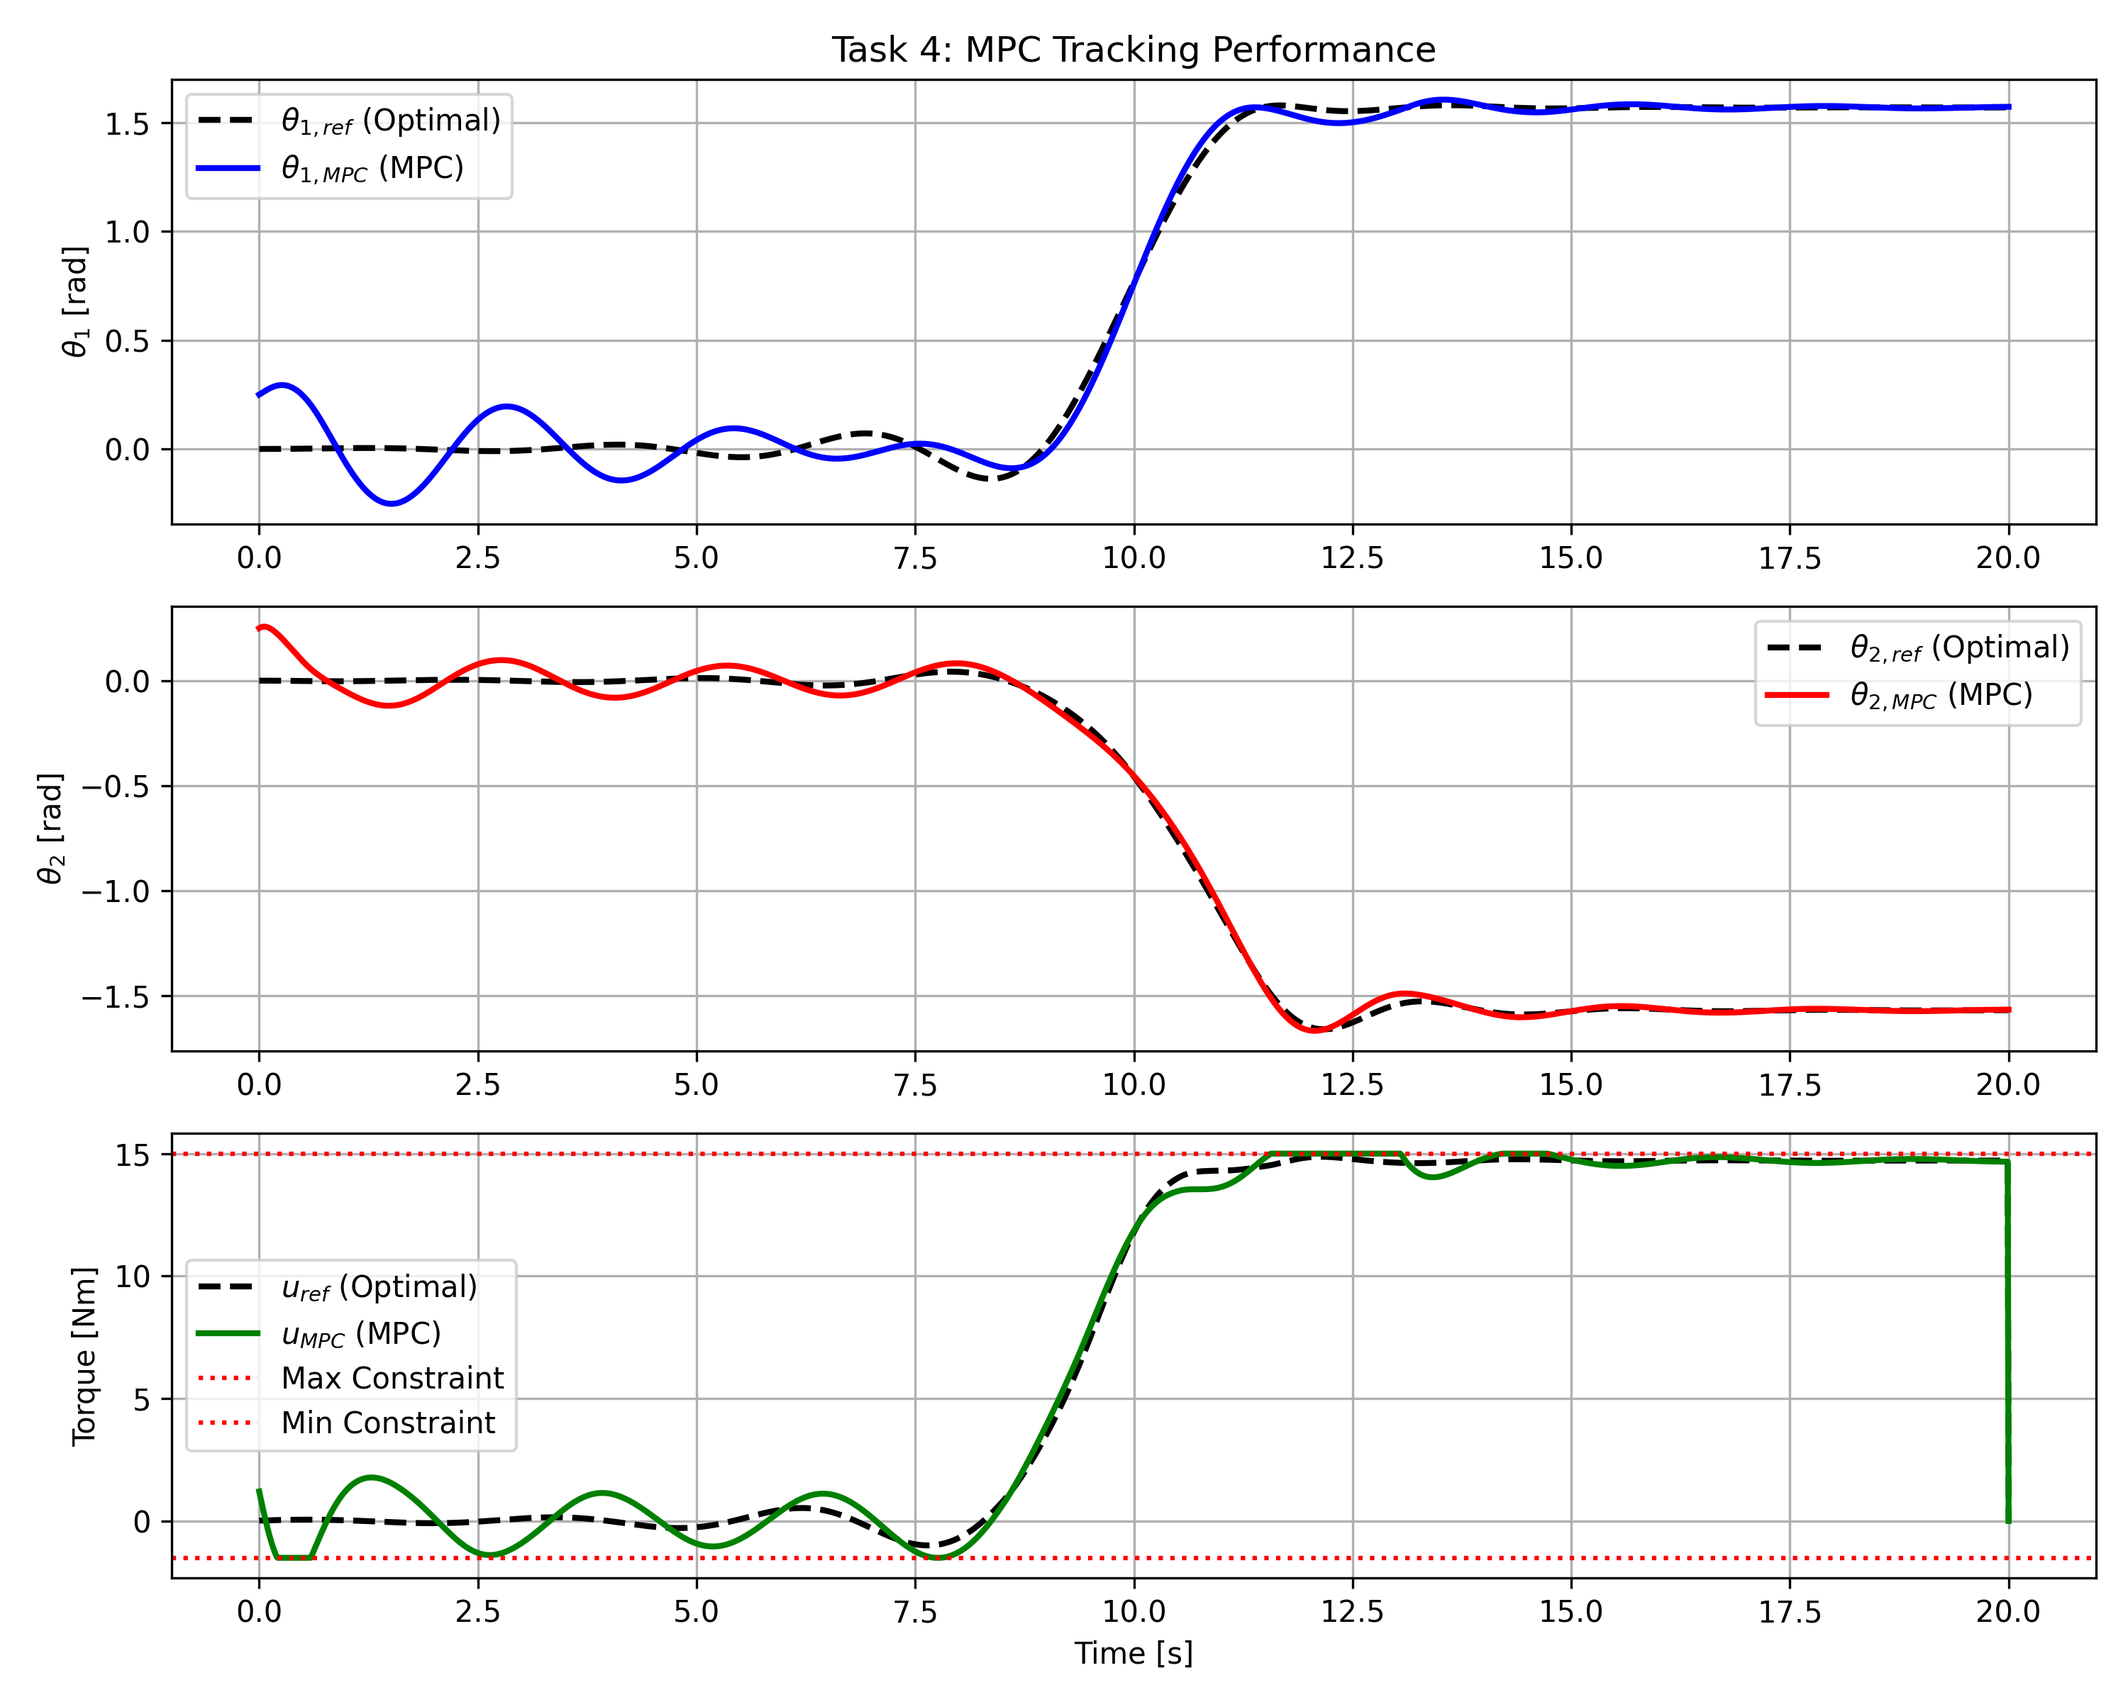
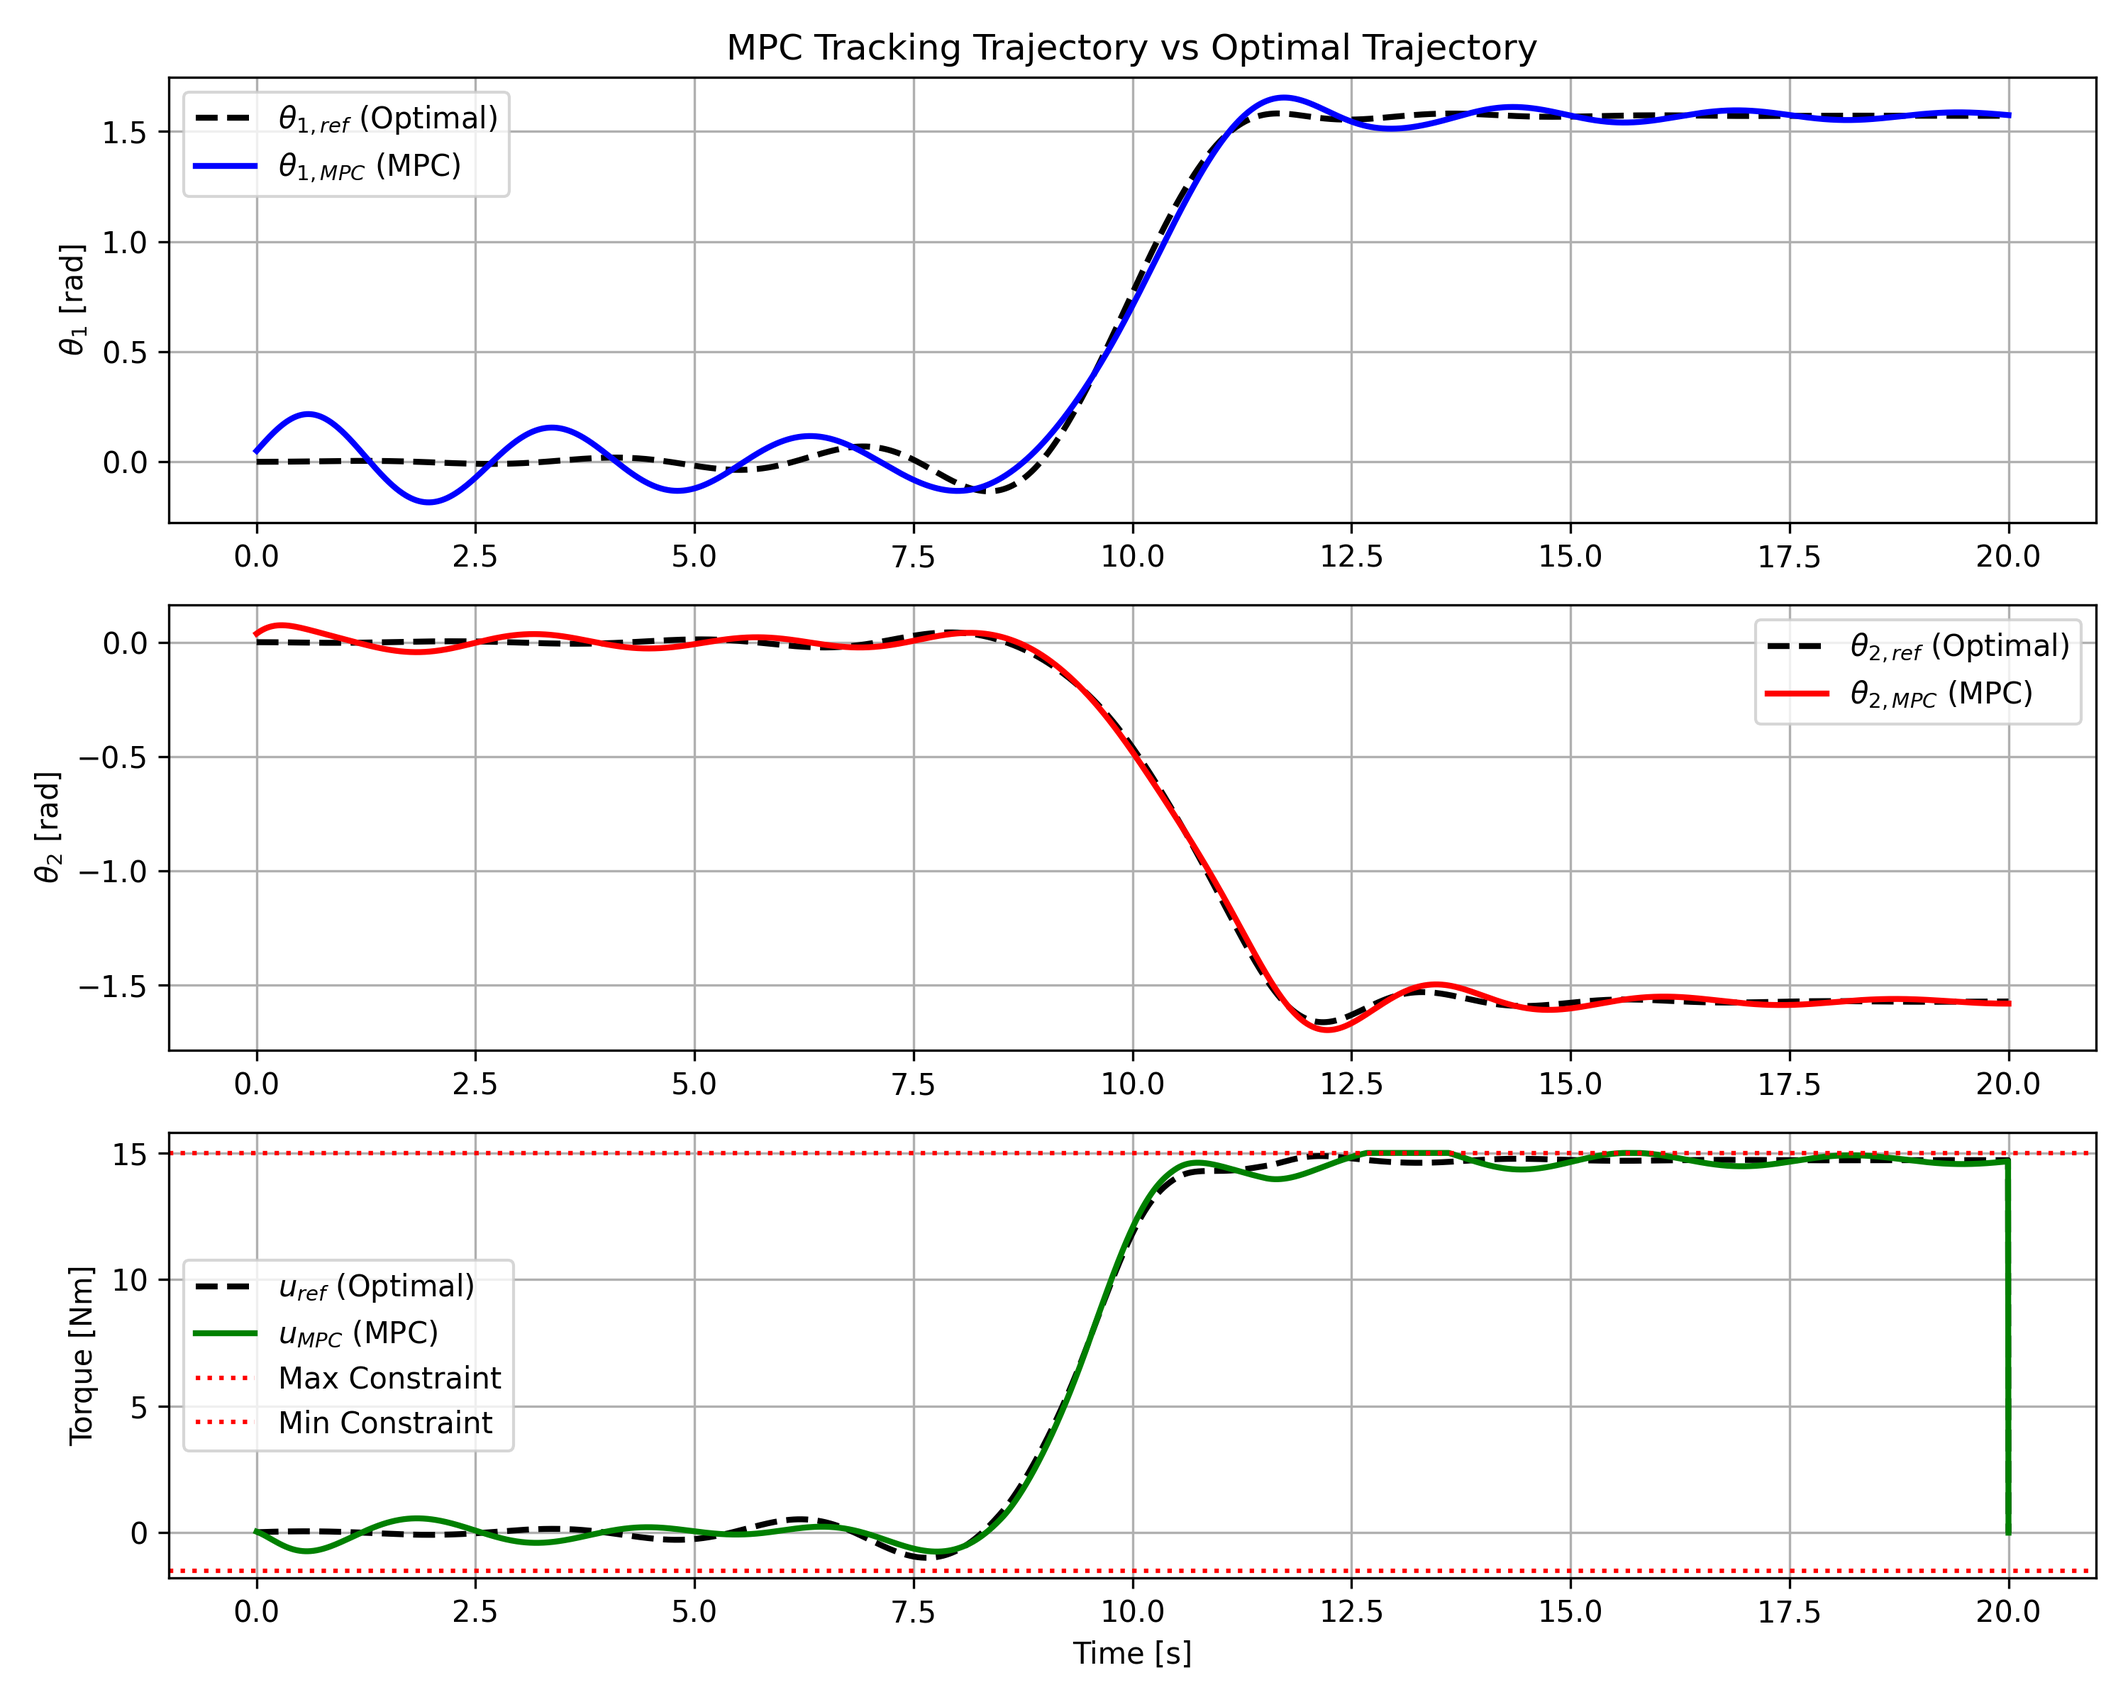
modificato fino a main 4

diff --git a/main_task4.py b/main_task4.py
@@ -25,22 +25,8 @@ else:
 ### --- IMPORTS --- ###
 import numpy as np
 import matplotlib.pyplot as plt
-import matplotlib.cm as cm
-import sympy as sp
-import math
-from mpl_toolkits import mplot3d # used for 3D plot
-import cvxpy as cvx
-import signal
-from scipy.optimize import minimize
-from matplotlib.animation import FuncAnimation
-import control 
-import random
-
 import dynamics as dyn
-import equilibrium as eq
 import reference_curve as ref_traj
-import cost as cst
-from ltv_solver_LQR import ltv_LQR
 from solver_MPC import solver_linear_MPC
 
 # Defining final time in seconds
@@ -49,13 +35,13 @@ tf = ref_traj.tf
 # Defining the discretization step value
 dt = dyn.dt
 
-# Defining the time-horizon value for MPC (we use a bigger time horizon value, i.e. four times the trajectory duration)
+# Defining the time-horizon value
 T_horizon  = int(tf/dt)
 
 # Defining the time-window size
 T_window = 25
 
-# Defining the time value to avoid index_errors
+# Defining the time value to avoid index_errors (+10 to be robust)
 T_limit = T_horizon + T_window
 
 # Defining the input torque limits
@@ -66,24 +52,23 @@ uu_min = -1.5
 ns = dyn.ns
 ni = dyn.ni
 
-# Defining the optimal trajectory variables
+# Loading from task 2 the optimal trajectory variables
 xx_opt_traj = np.load('optimal_traj_xx.npy')
 uu_opt_traj = np.load('optimal_traj_uu.npy')
 
 # Padding the optimal trajectory
-# T_padding = T_window + 5  # A little bit of extra margin
 xx_last = xx_opt_traj[:, -1].reshape(-1, 1) 
 uu_last = uu_opt_traj[:, -1].reshape(-1, 1)
 
-# Creiamo il blocco di padding ripetendo l'ultima colonna
+# Creating trhe padding block to add to the optimal trajectory repeating last column
 xx_pad = np.repeat(xx_last, T_window, axis=1)
 uu_pad = np.repeat(uu_last, T_window, axis=1)
 
-# Incolliamo
+# Attaching the padded part
 xx_opt_traj_pad = np.hstack((xx_opt_traj, xx_pad))
 uu_opt_traj_pad = np.hstack((uu_opt_traj, uu_pad))
 
-# Linearize dynamics along the trajectory
+# Initializing linearization dynamics matrices
 AA_t = np.zeros((ns, ns, T_limit))
 BB_t = np.zeros((ns, ni, T_limit))
 
@@ -91,11 +76,11 @@ BB_t = np.zeros((ns, ni, T_limit))
 # Finding the new A and B matrices dependent from the optimal trajectories xx and uu 
 for tt in range(T_limit):
     
-    # We compute "xt" and "ut" until the padded trajectory values
+    # Computing "xt" and "ut" until the padded trajectory values
     x_t = xx_opt_traj_pad[:, tt]
     u_t = uu_opt_traj_pad[:, tt]
     
-    # Compute A and B matrices
+    # Computing A and B matrices
     A = (dyn.dynamics_euler(x_t, u_t)[1]).T
     B = (dyn.dynamics_euler(x_t, u_t)[2]).T
     
@@ -103,60 +88,51 @@ for tt in range(T_limit):
     AA_t[:, :, tt] = A
     BB_t[:, :, tt] = B
 
-# Define LQ cost matrices
+# Defining LQ cost matrices
 QQ = np.diag([200, 200, 1, 1])
 RR = np.diag([0.1])
 QQ_final = np.diag([200, 200, 1, 1])
 
-# Defining the input perturbation 
-initial_perturbation = 0.25
-
+# Defining the input perturbation, as random, for each state
+initial_perturbation = np.random.uniform(0, 0.5, 4) # Syntax: uniform(start, end, num_elem)
+print(f"The initial perturbation on each state is:\n{initial_perturbation}")
 xx0_pert = xx_opt_traj[:,0].copy() + initial_perturbation
 
-# Inizialization of simulation arrays
+# Initializing tracking trajectories
 xx_MPC_track = np.zeros((ns, T_horizon)) # defining x_t
 uu_MPC_track = np.zeros((ni, T_horizon)) # defining u_t
 
-# Set initial condition as perturbed
+# Setting initial condition as perturbed
 xx_MPC_track[:, 0] = xx0_pert
 
-# --- RECEDING HORIZON SIMULATION LOOP ---
 print(f"Starting MPC Simulation with a time window step N={T_window}...")
 
-#--------------- MPC loop ---------------
+# MPC loop
 for tt in range(T_horizon-1):
 
-    # Measure/Estimate current state
-    x_curr = xx_MPC_track[:, tt]
+    # Measuring the current state
+    x_mpc_curr = xx_MPC_track[:, tt]
     
-    # Calculate current error (delta_x)
+    # Computing current error (delta_x)
     # The solver needs to know how far we are from the reference
-    delta_x0 = x_curr - xx_opt_traj[:, tt]
+    delta_x0 = x_mpc_curr - xx_opt_traj[:, tt]
     
     # Data Slicing (Preparation for the Solver)
-    # We extract the window from 'tt' to 'tt + N_pred'
+    # Extracting the window from 'tt' to 'tt + T_window'
     AA_window = AA_t[:, :, tt : tt + T_window]
     BB_window = BB_t[:, :, tt : tt + T_window]
     uu_ref_window = uu_opt_traj_pad[:, tt : tt + T_window] # Needed for input constraints
     
-    # Check if window size is correct (at the end of simulation)
-    if AA_window.shape[2] < T_window:
-        print("Warning: Window size mismatch near end of horizon.")
-        break
-
     # Solve MPC problem - it returns the optimal correction "delta_u" for the current step (the first one)
-    delta_u = solver_linear_MPC(
-        AA_window, BB_window, QQ, RR, QQ_final, 
-        delta_x0, T_window, uu_ref_window, uu_max, uu_min
-    )
+    delta_u = solver_linear_MPC(AA_window, BB_window, QQ, RR, QQ_final, delta_x0, T_window, uu_ref_window, uu_max, uu_min)
     
-    # Apply Input
-    #u_applied = uu_reference + delta_u_optimal
+    # Applying Input
+    # u_applied = uu_reference + delta_u_optimal
     u_applied = uu_opt_traj[:, tt] + delta_u
     uu_MPC_track[:, tt] = u_applied
     
-    # Solve MPC problem - apply first input and get x_t+1
-    xx_MPC_track[:,tt+1] = dyn.dynamics_euler(x_curr, u_applied)[0]
+    # Solving MPC problem - apply first input and get x_t+1
+    xx_MPC_track[:,tt+1] = dyn.dynamics_euler(x_mpc_curr, u_applied)[0]
     
     
 # Copy for plotting consistency
@@ -178,7 +154,7 @@ plt.subplot(3, 1, 1)
 plt.plot(time_axis, xx_opt_traj[0, :], 'k--', linewidth=2, label=r'$\theta_{1,ref}$ (Optimal)')
 plt.plot(time_axis, xx_final[0, :], 'b-', linewidth=2, label=r'$\theta_{1,MPC}$ (MPC)')
 plt.ylabel(r'$\theta_1$ [rad]')
-plt.title('Task 4: MPC Tracking Performance')
+plt.title('MPC Tracking Trajectory vs Optimal Trajectory')
 plt.grid(True)
 plt.legend(loc='best')
 
@@ -206,7 +182,7 @@ plt.tight_layout()
 plt.savefig(os.path.join(output_folder, 'Task4_Tracking_vs_Reference.png'), dpi=300)
 plt.show()
 
-# --- PLOT 2: Velocities Tracking ---
+# --- PLOT 1-bis: Tracking Trajectory vs Optimal Reference (Velocities) ---
 plt.figure(figsize=(10, 6))
 
 # Subplot 1: dTheta 1
@@ -214,7 +190,7 @@ plt.subplot(2, 1, 1)
 plt.plot(time_axis, xx_opt_traj[2, :], 'k--', linewidth=2, label=r'$\dot{\theta}_{1,ref}$')
 plt.plot(time_axis, xx_final[2, :], 'b-', linewidth=2, label=r'$\dot{\theta}_{1,MPC}$')
 plt.ylabel(r'$\dot{\theta}_1$ [rad/s]')
-plt.title('Task 4: Velocities Tracking')
+plt.title('MPC Velocities Tracking vs Optimal Trajectory')
 plt.grid(True)
 plt.legend()
 
@@ -231,21 +207,34 @@ plt.tight_layout()
 plt.savefig(os.path.join(output_folder, 'Task4_Velocities.png'), dpi=300)
 plt.show()
 
-# --- PLOT 3: Tracking Error Evolution ---
-state_labels = ["theta1", "theta2", "dtheta1", "dtheta2"]
-plt.figure(figsize=(10, 8))
+# --- PLOT 2: Tracking Error for each state and for the input ---
+# Visualization of the tracking errors
+
+# Plot tracking errors for state variables
+state_labels = [r"${\theta}_1$", r"${\theta}_2$", r"$\dot{\theta}_1$", r"$\dot{\theta}_2$"]
 
 for i, label in enumerate(state_labels):
-    plt.subplot(4, 1, i+1)
-    # Plotting absolute error |x_mpc - x_ref|
-    error = np.abs(xx_final[i, :] - xx_opt_traj[i, :])
-    plt.plot(time_axis, error, 'k-', linewidth=1.5)
-    plt.ylabel(f'Err {label}')
-    plt.grid(True)
-    if i == 0:
-        plt.title('Task 4: Absolute Tracking Errors')
+    plt.figure(figsize=(8, 5))
+    plt.plot(time_axis, np.abs(xx_final[i, :] - xx_opt_traj[i, :]), label=f"Tracking Error in {label}")
+    plt.title(f"Tracking Error in {label}")
+    plt.xlabel("Time [s]")
+    plt.ylabel(f"Error in {label}")
+    plt.grid()
+    plt.legend()
+    plot_name = f"task4_{label.replace('$', '').replace('\\', '').replace('.', '').replace('{', '').replace('}', '').replace('_', '').lower()}_tracking_error.png"
+    plt.savefig(os.path.join(output_folder,plot_name), dpi=300) # Save for the report
+    print(plot_name)
+    plt.show()
 
-plt.xlabel('Time [s]')
-plt.tight_layout()
-plt.savefig(os.path.join(output_folder, 'Task4_Tracking_Errors.png'), dpi=300)
+# Plot tracking error for input variable
+input_tracking_error = np.abs(uu_final - uu_opt_traj)
+plt.figure(figsize=(8, 5))
+plt.plot(time_axis, input_tracking_error[0, :], label="Tracking Error in Input (u)")
+plt.title("Tracking Error in Input (u)")
+plt.xlabel("Time [s]")
+plt.ylabel("Error in u")
+plt.grid()
+plt.legend()
+plt.savefig(os.path.join(output_folder,'Task4_Input_TrackError.png'), dpi=300) # Save for the report
+
 plt.show()

diff --git a/src/solver_MPC.py b/src/solver_MPC.py
@@ -6,17 +6,35 @@ import numpy as np
 import casadi as ca
 
 def solver_linear_MPC(AA_window, BB_window, QQ, RR, QQf, delta_x0, T_pred, uu_ref_window, umax, umin, ipopt_opts=None):
-    
+    r"""
+	LQR for LTV system with (time-varying) affine cost
+	
+  Args
+    - AA_window is a (ns x ns (x T_window)) linearization matrix
+    - BB_window is a (ns x ni (x T_window)) linearization matrix
+    - QQ is a (ns x ns (x TT)) stage cost matrix
+    - RR is a (ni x ni (x TT)) stage cost matrix
+    - QQf is a (ns x ns) terminal cost matrix
+    - delta_x0 is the error on the state (measured state - optimal state)
+    - T_pred is T_window, i.e. the time of prediction window
+    - uu_ref_window is the input reference vector that has dimension equal to (ni x (x T_window))
+    - umax is the upper bound on the input torque (constraint)
+    - umin is the lower bound on the input torque (constraint)
+    - ipopt_opts are the solver options
+  Return
+    - uu_pred[:,0] is the first optimal input of the optimal input sequence for that time window (returned as numpy array).
+        If the solver can't find the optimal input a sequence of zeros is returned
+    """
     # Setup of Casadi variables
     opti = ca.Opti()
     
     # State variables (Errors: delta_x)
-    # size: ns x (T_pred + 1) to include the initial state
+    # Size: ns x (T_pred + 1) to include the initial state
     ns, ni = BB_window.shape[0], BB_window.shape[1]
     xx_pred = opti.variable(ns, T_pred + 1)
     
     # Input variables (Corrections: delta_u)
-    # size: ni x T_pred
+    # Size: ni x T_pred
     uu_pred = opti.variable(ni, T_pred)
 
     # Converting weights to Casadi 2D matrices
@@ -24,14 +42,14 @@ def solver_linear_MPC(AA_window, BB_window, QQ, RR, QQf, delta_x0, T_pred, uu_re
     RR = ca.DM(RR)
     QQf = ca.DM(QQf)
     delta_x0 = ca.DM(delta_x0)
-    #xxt = np.array(xxt).squeeze()
 
-    # Cost function and constraints loop
+    # Initializing the cost function
     cost = 0
     
-    # Initial Condition Constraint: The simulation starts at the current error
+    # Initial Condition Constraint: the simulation starts at the current error
     opti.subject_to(xx_pred[:, 0] == delta_x0)
     
+    # Constraints loop
     for tt in range(T_pred):
         
         # Local variables for cleaner code
@@ -39,20 +57,18 @@ def solver_linear_MPC(AA_window, BB_window, QQ, RR, QQf, delta_x0, T_pred, uu_re
         ut = uu_pred[:, tt]     # delta_u at step tt
         ut_ref = uu_ref_window[:, tt] # Reference input at step tt (needed for constraints)
         
-        # Cost Accumulation (Quadratic Regulation)
+        # Cost Accumulation (
         cost += ca.mtimes([xt.T, QQ, xt]) + ca.mtimes([ut.T, RR, ut])
         
         # Dynamics Constraint (LTV)
-        # Note: We use index 'tt' directly because matrices are already sliced
+        # Note: We use index 'tt' directly because matrices have been already sliced
         A_t = ca.DM(AA_window[:,:,tt])
         B_t = ca.DM(BB_window[:,:,tt])    
            
-        # Dynamics: next state = A*curr + B*input
+        # Dynamics: next state = A*x_curr + B*input
         opti.subject_to(xx_pred[:, tt + 1] == ca.mtimes(A_t, xt) + ca.mtimes(B_t, ut))
         
-        # Input Constraints (on TOTAL input)
-        # We want: u_min <= (u_ref + delta_u) <= u_max
-        # So: u_min - u_ref <= delta_u <= u_max - u_ref
+        # Input Constraints
         opti.subject_to(ut + ut_ref <= umax)
         opti.subject_to(ut + ut_ref >= umin)
 
@@ -64,7 +80,7 @@ def solver_linear_MPC(AA_window, BB_window, QQ, RR, QQf, delta_x0, T_pred, uu_re
     # Solve: it minimizes the cost
     opti.minimize(cost)
     
-    # solver options
+    # Solver options
     if ipopt_opts is None:
         ipopt_opts = {
             "ipopt.print_level": 0,

diff --git a/main_task3.py b/main_task3.py
@@ -43,7 +43,7 @@ T_horizon  = int(tf/dt)
 ns = dyn.ns
 ni = dyn.ni
 
-# Defining the optimal trajectory variables
+# Loading from task 2 the optimal trajectory variables
 xx_opt_traj = np.load('optimal_traj_xx.npy')
 uu_opt_traj = np.load('optimal_traj_uu.npy')
 
